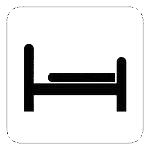
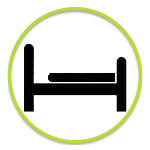
Updated images, added alert images
Updated images to have green circle outlines (for "all is well") and
added alert images with red circle outlines.

diff --git a/IPhone/nocturne/nocturne/MainViewController.m b/IPhone/nocturne/nocturne/MainViewController.m
@@ -15,6 +15,7 @@
 @implementation MainViewController
 
 static NSArray *_bedStatusImages;
+static NSArray *_bedStatusAlertImages;
 
 - (NSArray *)bedStatusImages {
     
@@ -23,6 +24,15 @@ static NSArray *_bedStatusImages;
     }
     
     return _bedStatusImages;
+}
+
+- (NSArray *)bedStatusAlertImages {
+    
+    if (_bedStatusAlertImages == nil) {
+        _bedStatusAlertImages = [NSArray arrayWithObjects:[UIImage imageNamed:@"inbed_alert.png"], [UIImage imageNamed:@"empty_bed_alert.png"], [UIImage imageNamed:@"nostatus_bed_alert.png"], nil];
+    }
+    
+    return _bedStatusAlertImages;
 }
 
 - (void)viewDidLoad
@@ -61,7 +71,7 @@ static NSArray *_bedStatusImages;
 
 - (NSInteger)tableView:(UITableView *)tableView numberOfRowsInSection:(NSInteger)section
 {
-    return 3;
+    return 4;
 }
 
 - (UITableViewCell *)tableView:(UITableView *)tableView cellForRowAtIndexPath:(NSIndexPath *)indexPath
@@ -77,7 +87,12 @@ static NSArray *_bedStatusImages;
     cell.textLabel.text = [NSString stringWithFormat:@"Client #%d", indexPath.row + 1];
     cell.detailTextLabel.text = @"7 minutes ago.";
     
-    cell.imageView.image = self.bedStatusImages[indexPath.row];
+    if (indexPath.row < 3) {
+        cell.imageView.image = self.bedStatusImages[indexPath.row];
+    }
+    else {
+        cell.imageView.image = self.bedStatusAlertImages[2];
+    }
     
     return cell;
 }
